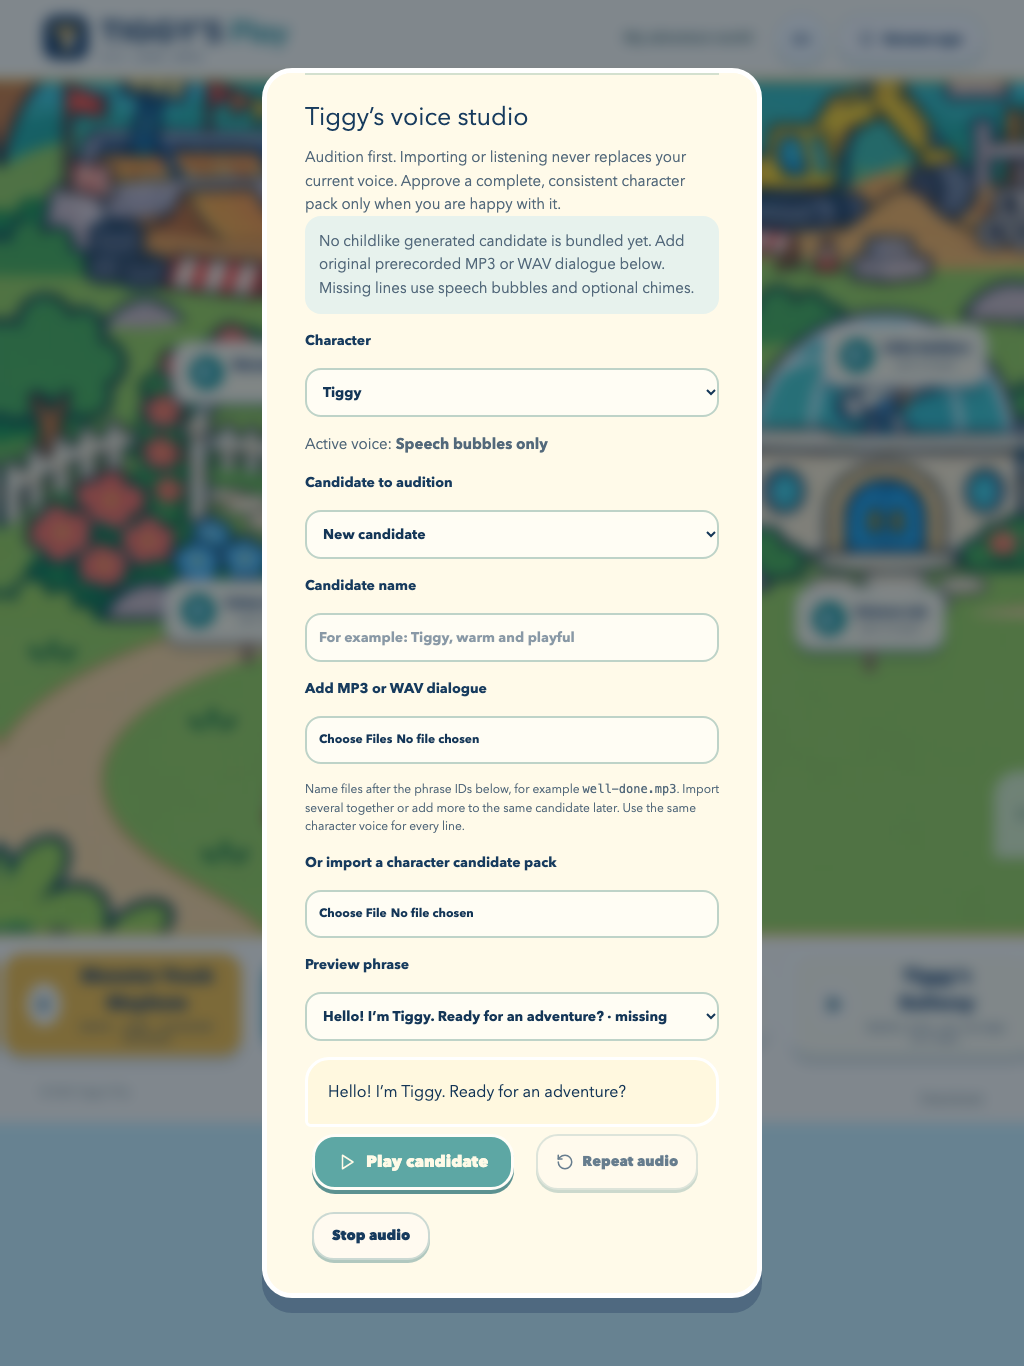
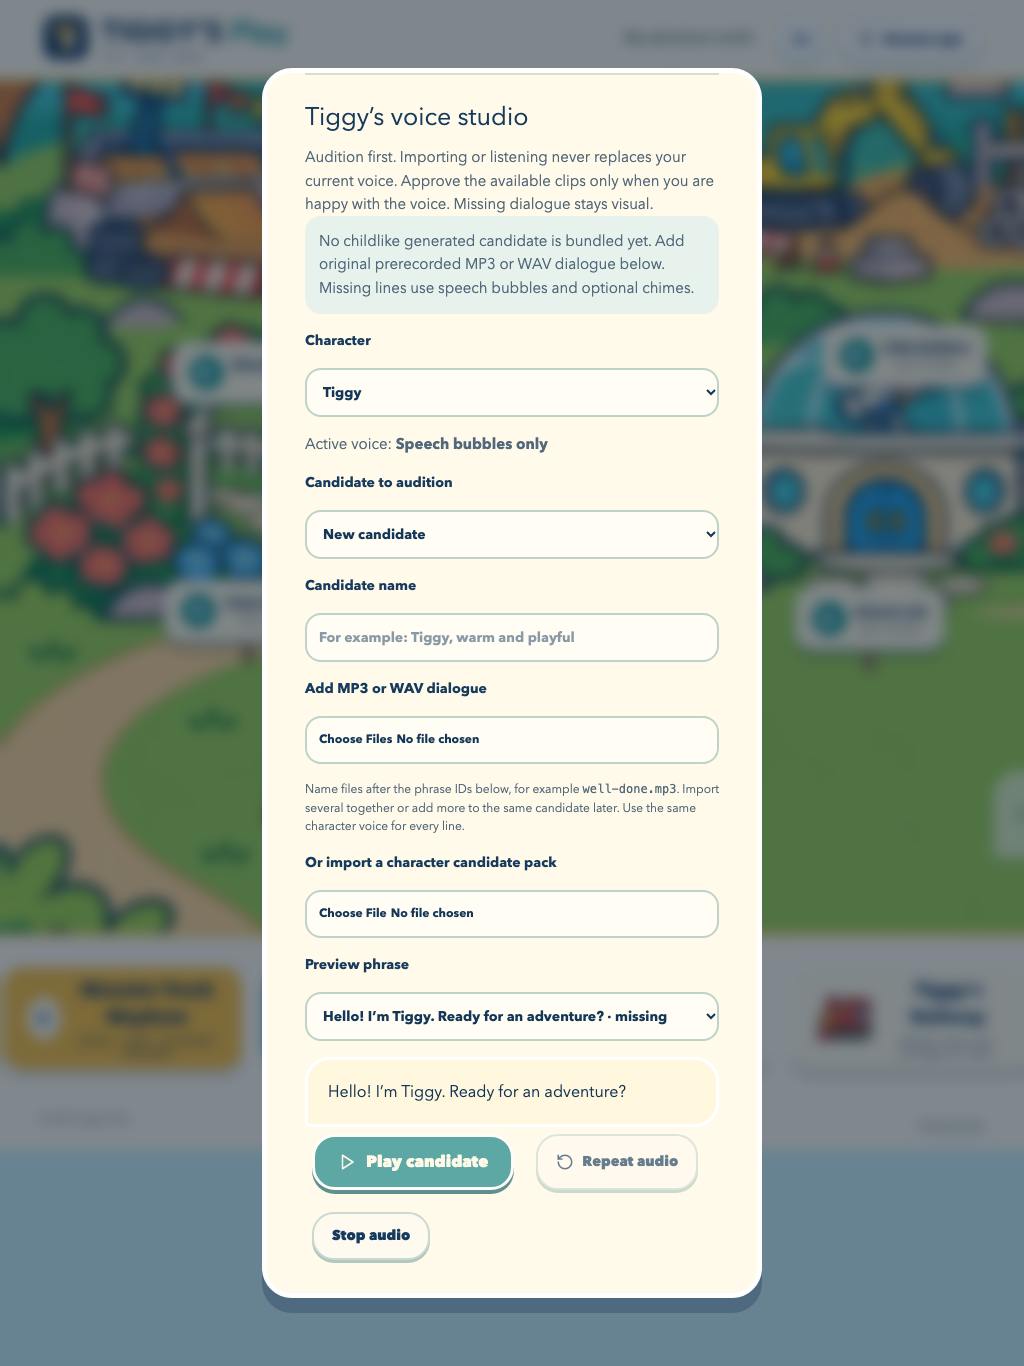
Allow explicitly approved partial voice packs with visual-only missing dialogue

diff --git a/src/game/voiceCandidates.ts b/src/game/voiceCandidates.ts
@@ -1,4 +1,4 @@
-import { voicePrompts, requiredVoiceIds } from "./voicePrompts";
+import { voicePrompts } from "./voicePrompts";
 import { voiceUrl } from "./recordings";
 export type Character = "tiggy" | "benny";
 type CandidateClip = { id: string; bytes: ArrayBuffer; type: string };
@@ -16,6 +16,7 @@ const active: Partial<Record<Character, string>> = {};
 const listeners = new Set<() => void>();
 let revision = 0;
 let loading: Promise<void> | undefined;
+let hydrated = false;
 export const subscribeCandidates = (fn: () => void) => {
   listeners.add(fn);
   return () => {
@@ -37,6 +38,7 @@ export function candidateUrl(id: string, clip: string) {
   return urls.get(id)?.get(clip);
 }
 export function resolvedVoiceUrl(clip: string, character: Character = "tiggy") {
+  if (!hydrated) return undefined;
   const selected = active[character];
   // An approved character never borrows missing lines from another speaker.
   return selected
@@ -69,6 +71,13 @@ function cache(c: Candidate) {
 }
 export function initialiseCandidates() {
   loading ??= (async () => {
+    // Lock to the persisted speaker before asynchronous loading; never briefly play another voice.
+    for (const character of ["tiggy", "benny"] as const) {
+      try {
+        const id = localStorage.getItem(`tiggy-approved-voice-${character}`);
+        if (id) active[character] = id;
+      } catch {}
+    }
     const db = await database();
     try {
       const items = await new Promise<Candidate[]>((resolve, reject) => {
@@ -85,7 +94,7 @@ export function initialiseCandidates() {
         if (
           id &&
           candidates.get(id)?.character === character &&
-          completeCandidate(candidates.get(id)!)
+          candidates.get(id)!.clips.length > 0
         )
           active[character] = id;
       }
@@ -93,16 +102,17 @@ export function initialiseCandidates() {
     } finally {
       db.close();
     }
-  })().catch(() => {
-    /* Import reports unavailable storage; gameplay remains independent. */
-  });
+  })()
+    .catch(() => {
+      /* Import reports unavailable storage; gameplay remains independent. */
+    })
+    .finally(() => {
+      hydrated = true;
+      notify();
+    });
   return loading;
 }
-export function completeCandidate(c: Candidate) {
-  return requiredVoiceIds(c.character).every((id) =>
-    c.clips.some((clip) => clip.id === id),
-  );
-}
+
 /** Candidate files contain local audio only; no expiring URLs, keys or network requests. */
 export async function importCandidate(file: File) {
   await initialiseCandidates();
@@ -173,10 +183,8 @@ export async function importCandidate(file: File) {
 }
 export function approveCandidate(id: string) {
   const c = candidates.get(id);
-  if (!c || !completeCandidate(c))
-    throw Error(
-      "Record every library line in this same voice before approving it.",
-    );
+  if (!c || !c.clips.length)
+    throw Error("Import at least one dialogue recording before approving it.");
   localStorage.setItem(`tiggy-approved-voice-${c.character}`, id);
   active[c.character] = id;
   notify();
@@ -276,8 +284,12 @@ export async function importDialogueFiles(
   return c.id;
 }
 /** Preserve a parent's older partial recordings; vary dialogue once the new lines exist. */
-export function celebrationLine(index: number, fallback: string) {
+export function celebrationLine(
+  index: number,
+  fallback: string,
+  character: Character = "tiggy",
+) {
   const ids = ["well-done", "you-did-it", "yay", "good-job", "amazing"];
-  const id = ids[index % ids.length];
-  return resolvedVoiceUrl(id) ? id : fallback;
+  const available = ids.filter((id) => !!resolvedVoiceUrl(id, character));
+  return available.length ? available[index % available.length] : fallback;
 }

diff --git a/tests/voice-preview.spec.ts b/tests/voice-preview.spec.ts
@@ -222,3 +222,90 @@ test("invalid dialogue filenames cannot create candidates", async ({
     page.getByLabel("Candidate to audition", { exact: true }).locator("option"),
   ).toHaveCount(1);
 });
+
+test("a partial voice is activated only by approval; missing lines stay visual", async ({
+  page,
+}) => {
+  await page.goto("/");
+  await studio(page);
+  await page
+    .getByLabel("Candidate name", { exact: true })
+    .fill("Partial test tone, not speech");
+  await page
+    .getByLabel("Add MP3 or WAV dialogue", { exact: true })
+    .setInputFiles({
+      name: "well-done.wav",
+      mimeType: "audio/wav",
+      buffer: tone(),
+    });
+  await expect(page.getByRole("status")).toContainText("audition only");
+  await expect(
+    page.getByText("70 required lines missing.", { exact: false }),
+  ).toBeVisible();
+  expect(
+    await page.evaluate(() =>
+      localStorage.getItem("tiggy-approved-voice-tiggy"),
+    ),
+  ).toBeNull();
+  await activate(page.getByRole("checkbox"));
+  expect(
+    await page.evaluate(() =>
+      localStorage.getItem("tiggy-approved-voice-tiggy"),
+    ),
+  ).toBeNull();
+  await activate(
+    page.getByRole("button", { name: "Approve this voice for games" }),
+  );
+  await expect(page.getByRole("status")).toContainText(
+    "Approved on this device",
+  );
+  // A legacy recording must not fill a missing line in the newly approved speaker's pack.
+  await page.evaluate(
+    async (bytes) => {
+      await new Promise<void>((resolve, reject) => {
+        const req = indexedDB.open("tiggy-parent-voice", 1);
+        req.onupgradeneeded = () =>
+          req.result.createObjectStore("clips", { keyPath: "id" });
+        req.onerror = () => reject(req.error);
+        req.onsuccess = () => {
+          const db = req.result,
+            tx = db.transaction("clips", "readwrite");
+          tx.objectStore("clips").put({
+            id: "intro",
+            bytes: new Uint8Array(bytes).buffer,
+            type: "audio/wav",
+          });
+          tx.oncomplete = () => {
+            db.close();
+            resolve();
+          };
+          tx.onerror = () => {
+            db.close();
+            reject(tx.error);
+          };
+        };
+      });
+    },
+    [...tone()],
+  );
+  await page.reload();
+  await activate(
+    page.getByRole("button", { name: "Play Colour Garden", exact: true }),
+  );
+  await expect(page.locator('.game-canvas[data-ready="true"]')).toBeVisible();
+  await expect(
+    page.getByRole("button", {
+      name: "Spoken instructions awaiting voice approval",
+    }),
+  ).toBeDisabled();
+  await activate(page.getByText("Use keyboard or simple matching controls"));
+  await activate(page.getByRole("button", { name: "Match red", exact: true }));
+  await expect(page.locator(".instruction")).toContainText("Well done!");
+  await expect(
+    page.getByRole("button", { name: "Replay instruction", exact: true }),
+  ).toBeEnabled();
+  await expect(page.getByText("1 / 9 flowers", { exact: true })).toBeVisible();
+  await activate(page.getByRole("button", { name: "Match blue", exact: true }));
+  await expect(page.getByText("2 / 9 flowers", { exact: true })).toBeVisible();
+  await expect(page.locator(".instruction")).toContainText("Well done!");
+});

diff --git a/src/components/VoicePreview.tsx b/src/components/VoicePreview.tsx
@@ -8,7 +8,6 @@ import {
   approveCandidate,
   candidateRevision,
   candidateUrl,
-  completeCandidate,
   deleteCandidate,
   importCandidate,
   importDialogueFiles,
@@ -54,6 +53,10 @@ export default function VoicePreview({ muted }: { muted: boolean }) {
     try {
       const id = await task();
       setSelected(id);
+      if (!candidateUrl(id, line)) {
+        const first = allCandidates().find((c) => c.id === id)?.clips[0];
+        if (first) setLine(first.id);
+      }
       setConfirmed(false);
       setMessage(
         "Imported for audition only. Your gameplay voice has not changed.",
@@ -84,8 +87,8 @@ export default function VoicePreview({ muted }: { muted: boolean }) {
       <h3 id="preview-title">Tiggy’s voice studio</h3>
       <p>
         Audition first. Importing or listening never replaces your current
-        voice. Approve a complete, consistent character pack only when you are
-        happy with it.
+        voice. Approve the available clips only when you are happy with the
+        voice. Missing dialogue stays visual.
       </p>
       <p className="voice-note">
         No childlike generated candidate is bundled yet. Add original
@@ -250,30 +253,34 @@ export default function VoicePreview({ muted }: { muted: boolean }) {
             {requiredVoiceIds(candidate.character).length} required lines ·{" "}
             {candidate.provider}
           </p>
+          <p className="voice-note">
+            {
+              requiredVoiceIds(candidate.character).filter(
+                (id) => !candidate.clips.some((c) => c.id === id),
+              ).length
+            }{" "}
+            required lines missing. Those lines stay as speech bubbles; another
+            speaker’s recordings will not be substituted.
+          </p>
           <button
             type="button"
             role="checkbox"
             aria-checked={confirmed}
             className="voice-approval"
-            disabled={!completeCandidate(candidate) || busy}
+            disabled={busy}
             onClick={() => setConfirmed((v) => !v)}
           >
             <span className="approval-mark" aria-hidden="true">
               {confirmed && <Check size={20} />}
             </span>
             <span>
-              I have listened, approve this original character voice, and
-              confirm every clip uses the same speaker.
+              I have listened and approve these available clips in one
+              consistent character voice. Missing lines will use visual prompts.
             </span>
           </button>
           <button
             className="primary"
-            disabled={
-              !confirmed ||
-              !completeCandidate(candidate) ||
-              busy ||
-              approved === selected
-            }
+            disabled={!confirmed || busy || approved === selected}
             onClick={() => {
               try {
                 stopAudio();

diff --git a/src/game/ActivityScene.ts b/src/game/ActivityScene.ts
@@ -1,3 +1,4 @@
+import { celebrationLine } from "./voiceCandidates";
 import * as Phaser from "phaser";
 import { activities, type ActivityId, type Choice } from "./activities";
 import { encouragementIds, promptText } from "./voicePrompts";
@@ -322,7 +323,11 @@ export class ActivityScene extends Phaser.Scene {
           ease: "Sine.easeInOut",
         });
     }
-    const celebrate = encouragementIds[this.step % encouragementIds.length];
+    const celebrate = celebrationLine(
+      this.step,
+      encouragementIds[this.step % encouragementIds.length],
+      activities[this.id].character,
+    );
     this.say(promptText(celebrate), celebrate);
     if (this.id === "ferris") {
       this.rides?.setText(

diff --git a/docs/VERIFICATION.md b/docs/VERIFICATION.md
@@ -4,7 +4,7 @@
 
 Ten complete, focused activities are playable: Colour Garden, Monster Truck Mayhem, Little Builders, Tiggy’s Railway, Science Lab, Ready Set Go, Build & Solve, Ferris Wheel, Benny Bear’s Breakfast and Potty Time. Each new activity has three/four steps, illustrated choices, gentle retries, completion, replay, home controls and persisted local progress. This is not a claim that each world has multiple completed minigames.
 
-The voice studio imports MP3/WAV dialogue or candidate JSON, previews without activation, requires a complete pack plus explicit approval, persists the choice per character, restores the prior recording source and supports deletion. It never changes pitch or speed. Tiggy and Benny do not borrow one another’s dialogue. Volume, mute, gesture unlock, preload/cache and natural automatic-dialogue pauses share one manager across games. Missing speech has visual bubbles and optional original chimes.
+The voice studio imports MP3/WAV dialogue or candidate JSON, previews without activation, supports partial packs with explicit approval, persists the choice per character, restores the prior recording source and supports deletion. It never changes pitch or speed. Tiggy and Benny do not borrow one another’s dialogue. Volume, mute, gesture unlock, preload/cache and natural automatic-dialogue pauses share one manager across games. Missing speech has visual bubbles and optional original chimes.
 
 **No approved new speech performances are bundled.** There are 71 missing Tiggy lines and 10 missing Benny lines. [Every filename and spoken phrase](audio/MISSING-ASSETS.csv) · [Import/approval workflow and provider investigation](audio/VOICE-SYSTEM.md).
 
@@ -12,7 +12,7 @@ The voice studio imports MP3/WAV dialogue or candidate JSON, previews without ac
 
 `npm run build`, the asset/private-photo guard and TypeScript pass. The local full matrix passed **86 tests with 10 intentional skips** (duplicate pure-geometry/lifecycle coverage and the desktop touch exclusion). Final visual refinements at functional commit `52686d5` then passed **16 targeted checks** across all four configurations, including signpost hit targets, Science Lab, Ferris Wheel and Breakfast. The picture shortcut pass also passed four navigation checks. The final separation of personal recordings from approved character packs passed 13 voice/recording checks, with three intentional lifecycle duplicates skipped. Linux CI exposed a fixed-delay input race in Colour Garden: simple matching controls could be pressed before the previous flower animation finished. They now reflect the scene busy state; the test waits for the actual score update. This fix passed 15 garden checks locally, with one intentional desktop-touch skip. The clean-install game build passed [CI at commit 050ff7c](https://github.com/LiezelVW/tiggys-play/actions/runs/44998090363), including npm ci, production build and **86 browser tests with 10 intentional skips**. The subsequent local ElevenLabs preparation client passed eight mocked provider contract/path-privacy tests; no live generation is claimed. The Playwright matrix covers desktop Chromium, tablet Chromium, phone Chromium and phone WebKit. It verifies full activities, wrong-answer recovery, replay, persistence, parent controls, scene suspension, voluntary exit from Potty Time, session limits, reduced motion, ramp geometry, rapid tapping, art loading and overflow.
 
-Voice tests use generated tones rather than anyone’s speech. They exercise native media playback, import without approval, incomplete-pack rejection, approval persistence, separate character selection, original playback rate, volume persistence, restore and invalid filenames. Recording tests use a synthetic microphone stream; Linux WebKit without MediaRecorder verifies the real WAV import fallback. No test tone is shipped as dialogue or committed as an audition candidate.
+Voice tests use generated tones rather than anyone’s speech. They exercise native media playback, import without approval, unapproved-pack rejection and partial-pack activation only after confirmation, approval persistence, separate character selection, original playback rate, volume persistence, restore and invalid filenames. Recording tests use a synthetic microphone stream; Linux WebKit without MediaRecorder verifies the real WAV import fallback. No test tone is shipped as dialogue or committed as an audition candidate.
 
 ## Rendered evidence
 
@@ -36,3 +36,9 @@ The screenshot script captures the production build at desktop (1440 × 1000), t
 ## Review limits
 
 PR #2 remains unmerged. The flatter original 2D pass is generated illustration refined from the existing approved design, not hand-drawn artwork by a professional animator or a copy of Lingokids. The new frames need final art/animation review, particularly small badge lettering and transition cleanup. Benny has four reaction drawings; this is not a full skeletal animation rig. Physical iPhone, Android and iPad acceptance remains separate from browser emulation. Cloud accounts, multiple activities per world, native packaging and a shared approved character voice pack remain future work.
+
+## Partial-pack follow-up
+
+The partial approval and stored-speaker loading changes pass a production build and 17 local voice/recording browser checks, with three intentional lifecycle duplicates skipped. The regression seeds an older personal instruction, approves a different partial character voice, reloads, and verifies that the missing instruction stays visual while available praise can play. Private uploaded audio and proposed cuts are not included in Git or the rendered public evidence. The latest full CI status is available in PR #2.
+
+Available praise now cycles through the approved clips that exist instead of falling silent when a preferred praise line is missing. The final voice-studio regression pass completed 12 checks across all four browser configurations. No uploaded recording, automatic transcript or proposed cut was committed.

diff --git a/docs/audio/VOICE-SYSTEM.md b/docs/audio/VOICE-SYSTEM.md
@@ -6,9 +6,9 @@ No convincing childlike speech performance is currently available. No new adult 
 
 Open **Grown-ups → Voice preview & approval**. Choose Tiggy or Benny Bear, name a candidate, and import original MP3/WAV files. Each filename matches a phrase ID, for example `well-done.mp3`. Add files to an existing unapproved candidate at any time, or import a JSON candidate pack. Up to four candidates are stored locally. They are not uploaded.
 
-Select any phrase and press **Play candidate** or **Repeat audio**. Playback uses original pitch and 1× speed. Missing clips display the speech bubble and cannot be played. Every required line must exist before the approval checkbox is enabled. Explicit approval applies only to this browser/device. It does not commit or publish audio for other children. An approved candidate is read-only. Restore the previous voice before deleting it. The existing parent recorder/export format remains supported independently.
+Select any phrase and press **Play candidate** or **Repeat audio**. Playback uses original pitch and 1× speed. Missing clips display the speech bubble and cannot be played. A partial pack can be explicitly approved after listening. The studio reports missing lines; they remain visual instead of borrowing another speaker. Importing alone never activates anything. Explicit approval applies only to this browser/device. It does not commit or publish audio for other children. An approved candidate is read-only. Restore the previous voice before deleting it. The existing parent recorder/export format remains supported independently.
 
-Tiggy requires all 71 library lines, including all 29 requested encouragement, communication, learning, self-feeding and potty phrases. Benny requires his four breakfast instructions and six encouragement/retry lines (10 files). Benny never borrows Tiggy's voice or the parent's recordings. Other characters can be added as separate character keys when they have playable activities and their own approved performances.
+The full Tiggy script library contains 71 lines, including all 29 requested encouragement, communication, learning, self-feeding and potty phrases. Benny’s full script library contains his four breakfast instructions and six encouragement/retry lines (10 files). Benny never borrows Tiggy's voice or the parent's recordings. Other characters can be added as separate character keys when they have playable activities and their own approved performances.
 
 ## Exact missing recordings
 
@@ -42,3 +42,7 @@ A voice performer or permitted fictional-character synthesis workflow can produc
 ## Performance brief for prerecorded dialogue
 
 Tiggy: an original cheerful young cartoon boy, curious and warm, with clear consonants and short natural phrases. Preserve a gentle Irish-English character where the performer can deliver it naturally. Avoid adult narration, exaggerated baby speech, squeakiness and artificial pitch shifting. Benny: a separate friendly, rounded bear character performance, not the same voice renamed. Deliver one clean MP3/WAV per exact script, without background music or spoken stage directions; let the app provide the response pauses. Preview real performances for intelligibility and emotional fit before approving a pack. No recording or likeness of Thiago is needed.
+
+## Progressive voice packs
+
+A partial candidate can be approved explicitly. Only its own available recordings are used; absent lines stay as speech bubbles, including while stored voice selection is loading. An older personal voice never fills holes in a newly approved character pack. The original recordings remain available to restore. Approved packs stay read-only until their selection is restored/revoked, so adding or replacing recordings requires review again. Source uploads, automatic transcripts and proposed clip cuts remain private review artifacts unless the user authorizes publication; auditioning does not establish that the cuts or apparent age are artistically approved.

diff --git a/docs/audio/ELEVENLABS.md b/docs/audio/ELEVENLABS.md
@@ -44,7 +44,7 @@ node scripts/elevenlabs-voice.mjs render --voice SAVED_VOICE_ID --character tigg
 
 For Benny, choose `--character benny` with his own voice ID. The command renders the canonical 71 Tiggy or 10 Benny lines sequentially and saves MP3 files plus `candidate-pack.json`. The original speed is 1; there is no pitch manipulation, denoising, stretching or fallback speaker. The generation manifest binds files to the voice, model and exact script version, preventing accidental mixing when resuming a partially completed folder. Existing successful files are reused. On any error, generation stops without retry; `stopped.json` identifies the line. Check provider history before manually rerunning an uncertain request, because it may have consumed credits.
 
-Import the completed pack in **Grown-ups → Voice preview & approval**, listen again and explicitly approve it for this device. The generated pack is never automatically committed, published or selected. Existing recordings and the currently selected voice stay intact until the parent chooses a replacement. Games remain playable through speech bubbles and optional sound effects throughout.
+Import the generated pack in **Grown-ups → Voice preview & approval**, listen again and explicitly approve it for this device. The generated pack is never automatically committed, published or selected. Existing recordings and the currently selected voice stay intact until the parent chooses a replacement. Games remain playable through speech bubbles and optional sound effects throughout.
 
 ## Tests and limits
 
@@ -55,3 +55,5 @@ Primary API references: [Voice Design](https://elevenlabs.io/docs/api-reference/
 ## Information to give ElevenLabs when checking permitted use
 
 Describe a parent-operated private, non-commercial family app for ages 2–6, using fixed prerecorded educational phrases rather than a live child-facing chatbot. Request permission for an original fictional young cartoon voice, with no real child recordings, likeness conditioning or cloning. Ask which account/model terms and attribution requirements apply to that private use. This repository does not send that request on your behalf.
+
+Partial prerecorded packs can also be auditioned and explicitly approved before the full library is ready. Missing phrases remain visual. This does not require a live speech API or a browser API key.

diff --git a/README.md b/README.md
@@ -90,7 +90,7 @@ The header now uses an outlined SVG wordmark and matching T/play monogram. There
 
 ## Character voice studio and missing audio
 
-Open **Grown-ups → Voice preview & approval**. Import MP3/WAV clips by phrase filename, or audition candidate packs. Import and preview do not change the selected gameplay voice. Only an explicit approval of a complete pack activates it on this device. Tiggy and Benny are separate speakers; no missing line borrows another character’s voice. Previous local recordings are preserved. Volume and mute are available in Grown-ups.
+Open **Grown-ups → Voice preview & approval**. Import MP3/WAV clips by phrase filename, or audition candidate packs. Import and preview do not change the selected gameplay voice. Only explicit approval activates the available clips on this device. Partial packs are supported; missing dialogue stays visual and does not borrow an older speaker. Tiggy and Benny are separate speakers; no missing line borrows another character’s voice. Previous local recordings are preserved. Volume and mute are available in Grown-ups.
 
 All 29 requested speech-development phrases are scripted, alongside game dialogue. **71 Tiggy performances and 10 Benny performances are still missing.** No replacement adult narration or pitch-shifted audition is bundled. Every game works with visual speech bubbles and optional sound effects while voice assets are missing. [Exact asset checklist](docs/audio/MISSING-ASSETS.csv) · [Voice workflow and provider investigation](docs/audio/VOICE-SYSTEM.md).
 
